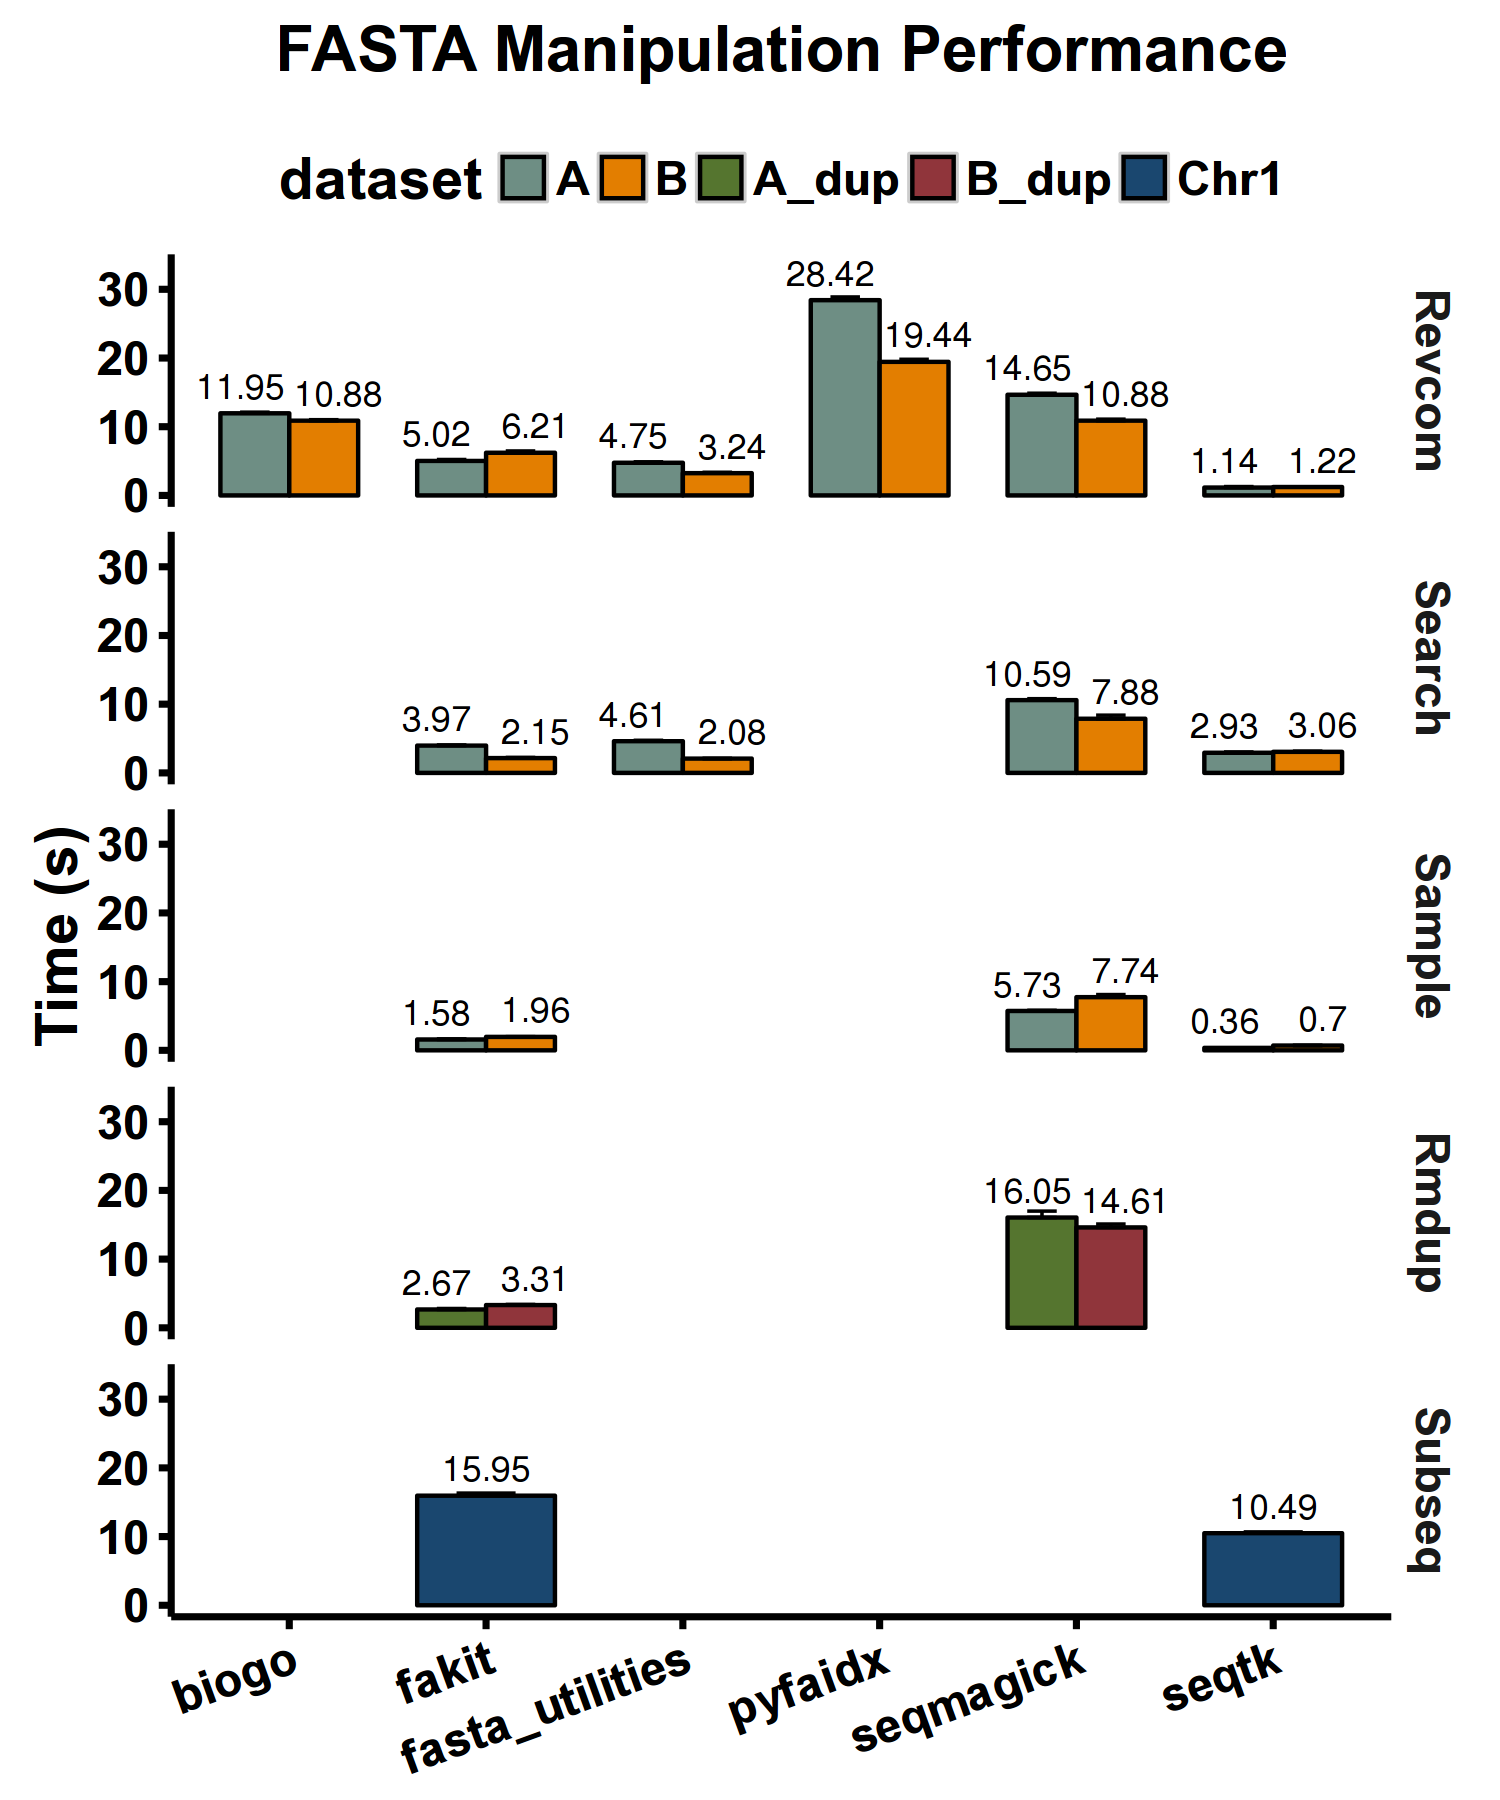
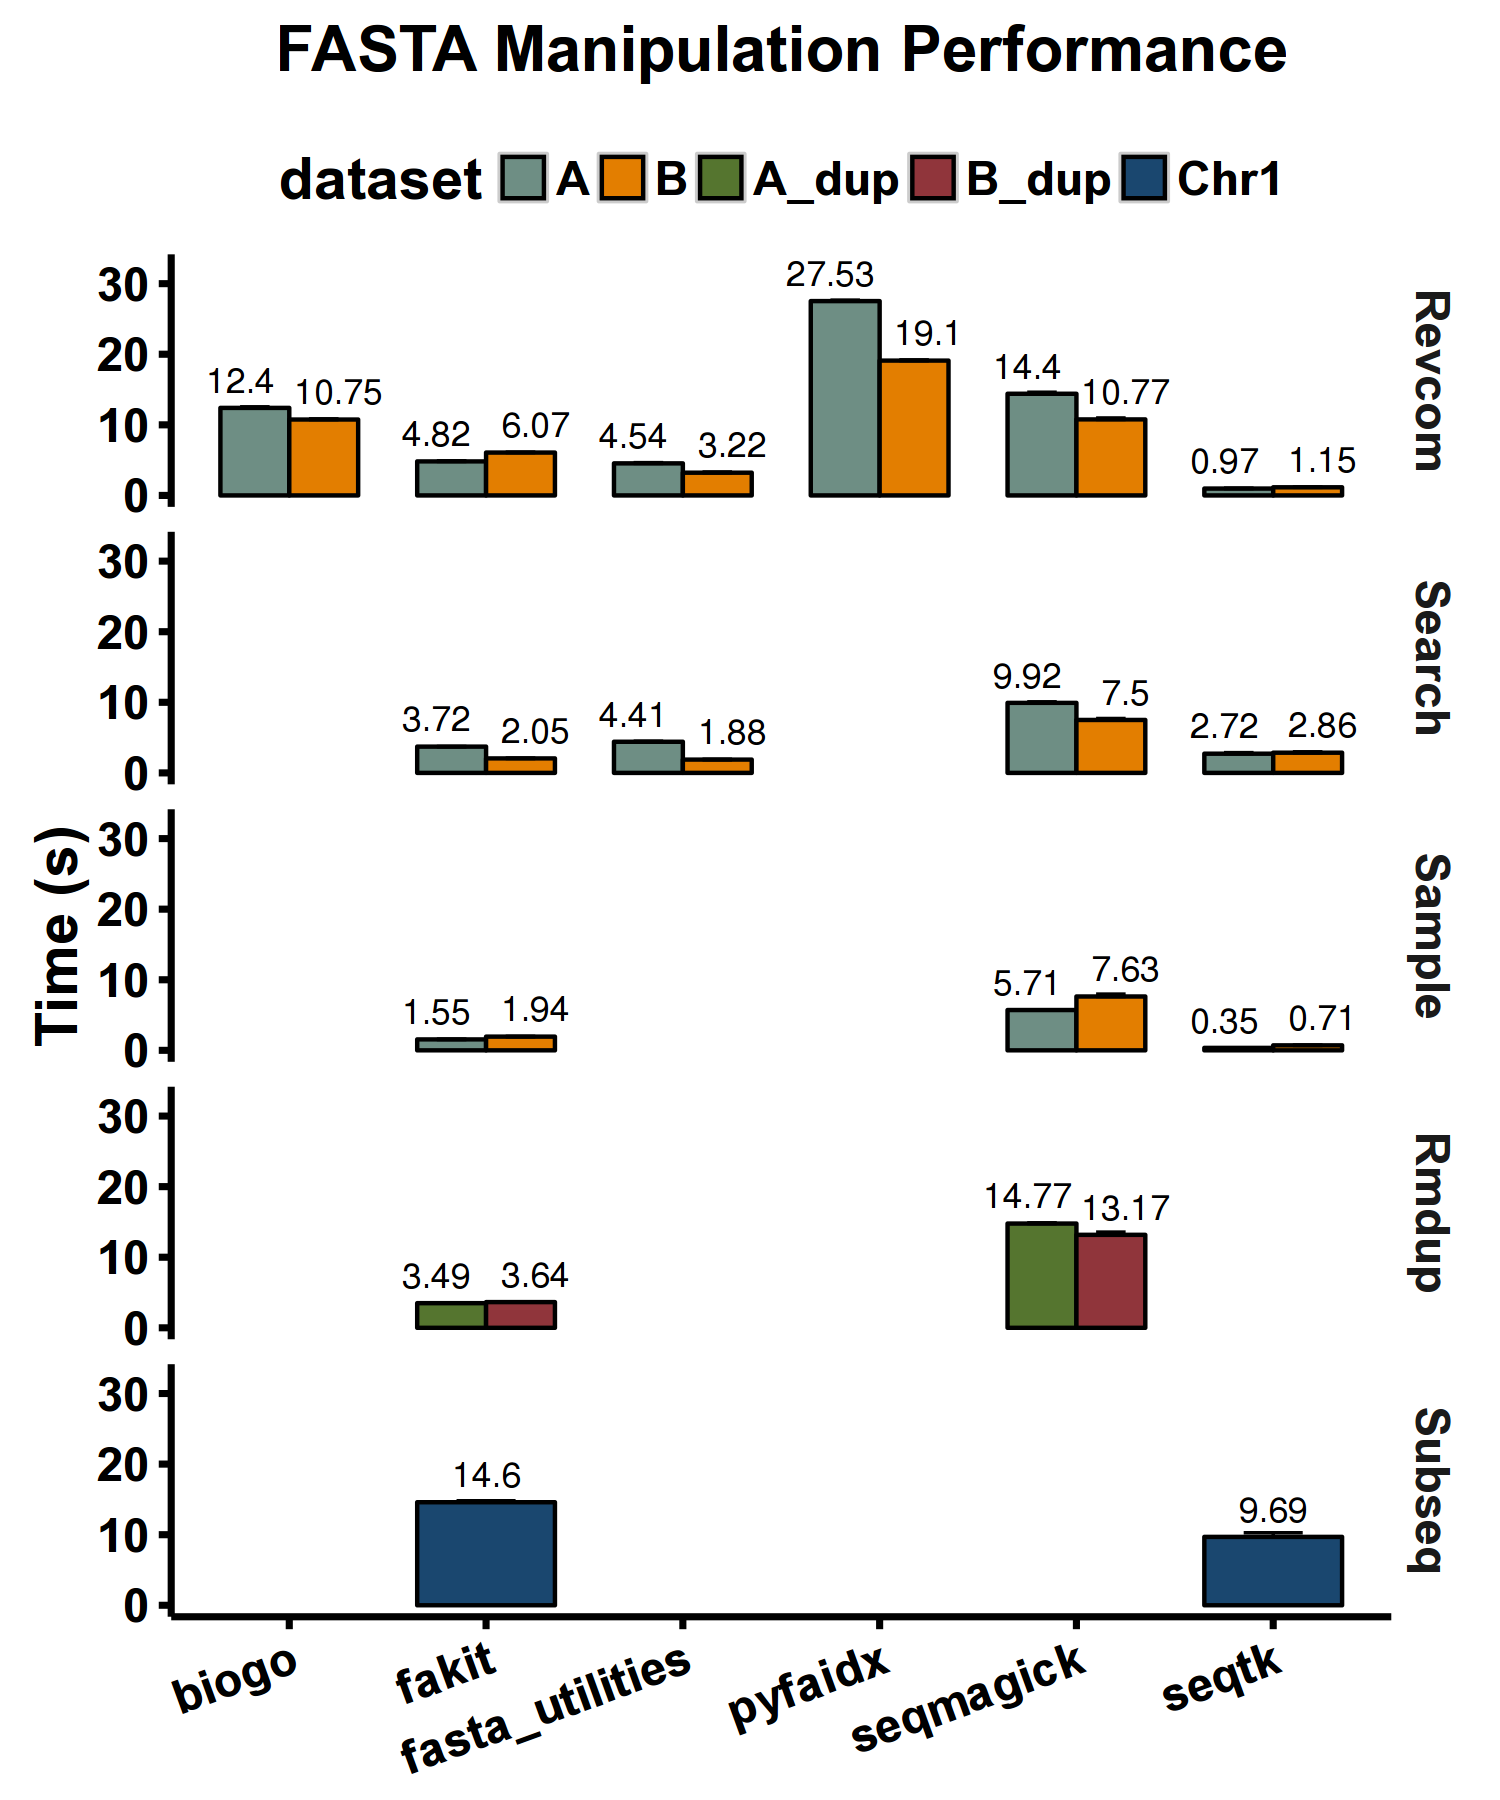
update benchmark result

diff --git a/benchmark/index.html b/benchmark/index.html
@@ -564,7 +564,7 @@ $ fakit fa2tab dataset_B_dup.fasta  | cut -f 2 | sort | uniq | wc -l
 <h3 id="commands_3">Commands</h3>
 <p>By sequence</p>
 <pre><code>echo == fakit
-for f in dataset_{A,B}_dup.fasta; do echo data: $f; time fakit rmdup -s $f &gt; $f.rmdup.fakit.fa; done
+for f in dataset_{A,B}_dup.fasta; do echo data: $f; time fakit rmdup -s -m $f &gt; $f.rmdup.fakit.fa; done
 
 echo == seqmagick
 for f in dataset_{A,B}_dup.fasta; do echo data: $f; time seqmagick convert --deduplicate-sequences $f - &gt; $f.rmdup.seqmagick.fa; done

diff --git a/index.html b/index.html
@@ -522,5 +522,5 @@ propose new functions or ask for help.</p>
 
 <!--
 MkDocs version : 0.15.3
-Build Date UTC : 2016-03-29 05:30:16.356918
+Build Date UTC : 2016-03-29 06:50:13.727438
 -->
